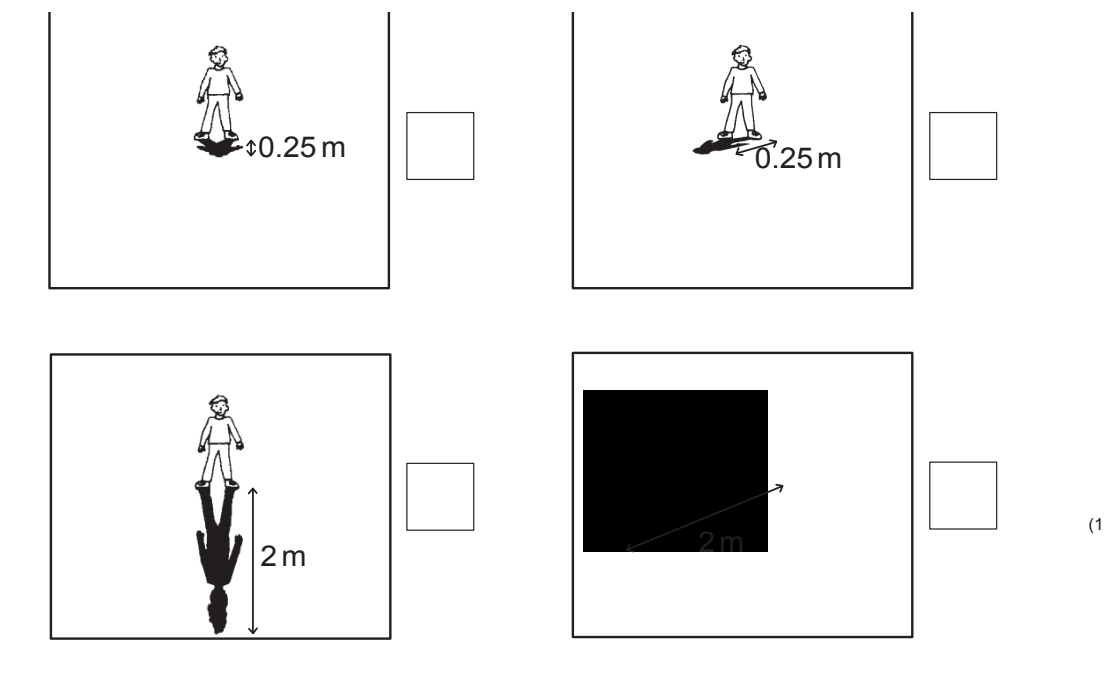
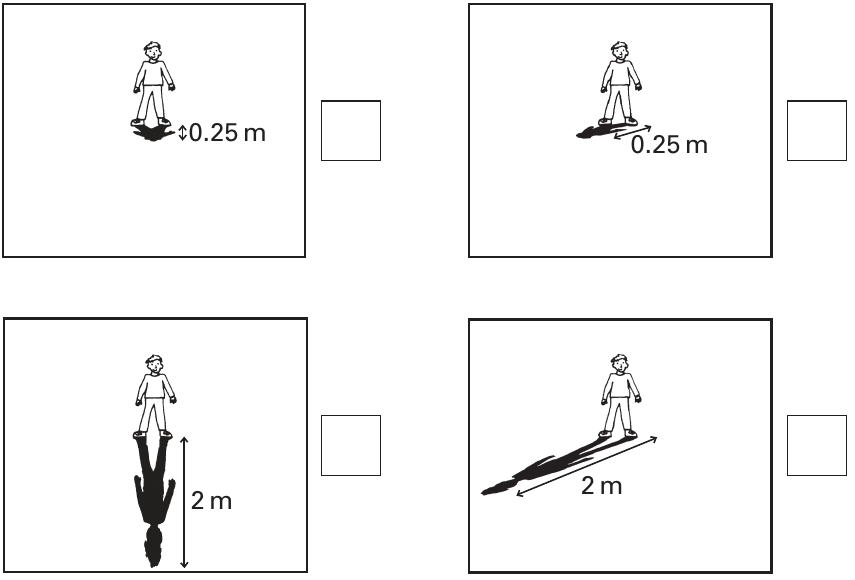
Fix KS2 Science diagrams, context, and accepted answers

diff --git a/apps/workspace-next/src/features/tests/content/ks2-science/progress-test-1.ts b/apps/workspace-next/src/features/tests/content/ks2-science/progress-test-1.ts
@@ -43,17 +43,24 @@ type SourceQuestion = {
     value?: unknown;
     values?: Record<string, unknown>;
     acceptedValues?: string[];
+    alternatives?: Array<Record<string, string>>;
+    min?: number;
+    max?: number;
+    expected?: number;
   };
   partialCredit?: {
     bands?: Array<{ minCorrect: number; marks: number }>;
   } | null;
   feedback: { explanation: string };
   assets: string[];
+  assetDescriptions?: Record<string, string>;
+  assetMaxWidths?: Record<string, number>;
 };
 
 type SourceSection = {
   id: string;
   title: string;
+  introduction: string;
   questions: SourceQuestion[];
 };
 
@@ -80,7 +87,11 @@ export const ks2ScienceProgressTest1: TestDefinition = {
     title: section.title,
     hint: "Answer every question. All responses are marked automatically.",
     groupByQuestionNumber: true,
-    questions: section.questions.map(convertQuestion),
+    visualPlacement: "perQuestion",
+    questions: section.questions.map((question, questionIndex) => ({
+      ...convertQuestion(question),
+      ...(questionIndex === 0 ? { groupIntro: { lead: section.introduction } } : {}),
+    })),
   })),
 };
 
@@ -95,8 +106,8 @@ function convertQuestion(question: SourceQuestion): TestQuestion {
       .map((asset) => ({
         type: "image" as const,
         src: assetPath(asset),
-        alt: `Source visual for question ${question.id}`,
-        maxWidth: 720,
+        alt: question.assetDescriptions?.[asset] || `Source visual for question ${question.id}`,
+        maxWidth: question.assetMaxWidths?.[asset] || 720,
       })),
   };
 
@@ -120,9 +131,9 @@ function convertQuestion(question: SourceQuestion): TestQuestion {
   }
 
   if (question.interaction.type === "integer_entry" || question.interaction.type === "numeric_entry") {
-    const accepted = question.answerRule.kind === "number_range"
-      ? integerRange(question.answerRule.values, question.answerRule)
-      : [String(question.answerRule.value ?? "")];
+    const numericRange = answerRange(question);
+    const expected = numericRange ? question.answerRule.expected ?? numericRange.min : question.answerRule.value;
+    const accepted = [String(expected ?? "")];
     return {
       ...common,
       type: "text",
@@ -130,8 +141,8 @@ function convertQuestion(question: SourceQuestion): TestQuestion {
       placeholder: question.interaction.unit ? `Answer in ${question.interaction.unit}` : "Enter a number",
       grading: {
         mode: "auto",
-        display: question.answerRule.kind === "number_range" ? "21–26 minutes (expected reading: 23)" : accepted[0],
-        parts: [{ id: "answer", accepted, points: question.marks }],
+        display: numericRange ? `${numericRange.min}–${numericRange.max} ${question.interaction.unit || ""} (expected reading: ${expected})`.trim() : accepted[0],
+        parts: [{ id: "answer", accepted, points: question.marks, numericRange }],
       },
     };
   }
@@ -161,6 +172,30 @@ function convertQuestion(question: SourceQuestion): TestQuestion {
   }
 
   const fields = responseFields(question);
+  if (question.answerRule.kind === "one_of_maps") {
+    const alternatives = question.answerRule.alternatives || [];
+    return {
+      ...common,
+      type: "multiText",
+      compact: true,
+      fields,
+      grading: {
+        mode: "auto",
+        display: alternatives.map((values) => displayValues(values, question)).join(" OR "),
+        parts: fields.map((field) => ({
+          id: field.id,
+          accepted: [...new Set(alternatives.map((values) => values[field.id]))],
+          points: 1,
+        })),
+        sequenceGroups: alternatives.map((values, index) => ({
+          id: `alternative-${index + 1}`,
+          partIds: fields.map((field) => field.id),
+          acceptedSequence: fields.map((field) => values[field.id]),
+          points: question.marks,
+        })),
+      },
+    };
+  }
   const values = question.answerRule.values || {};
   const parts = fields.map((field, index) => ({
     id: field.id,
@@ -253,11 +288,13 @@ function displayValues(values: Record<string, unknown>, question: SourceQuestion
   return Object.entries(values).map(([key, value]) => `${humanize(key)}: ${humanize(String(value))}`).join("; ");
 }
 
-function integerRange(_values: Record<string, unknown> | undefined, rule: SourceQuestion["answerRule"]) {
-  const record = rule as SourceQuestion["answerRule"] & { min?: number; max?: number };
-  const min = Number(record.min ?? 0);
-  const max = Number(record.max ?? min);
-  return Array.from({ length: max - min + 1 }, (_, index) => String(min + index));
+function answerRange(question: SourceQuestion) {
+  const { kind, min, max } = question.answerRule;
+  if (kind !== "number_range") return undefined;
+  if (typeof min !== "number" || typeof max !== "number" || !Number.isFinite(min) || !Number.isFinite(max) || min > max) {
+    throw new Error(`Invalid numeric range for question ${question.id}`);
+  }
+  return { min, max };
 }
 
 function partLabel(id: string) {

diff --git a/apps/workspace-next/src/features/tests/components/test-runner.tsx b/apps/workspace-next/src/features/tests/components/test-runner.tsx
@@ -32,7 +32,7 @@ export function TestRunner({ test }: { test: TestDefinition }) {
   const answeredCount = questions.filter((question) => isAnswered(answers[question.id])).length;
   const active = test.sections.find((section) => section.id === activeSection) || test.sections[0];
   const activeQuestionItems = useMemo(
-    () => groupScienceQuestions(active?.questions || [], Boolean(active?.groupByQuestionNumber)),
+    () => groupScienceQuestions(active?.questions || [], Boolean(active?.groupByQuestionNumber), active?.visualPlacement),
     [active],
   );
   const activeQuestionCount = active?.groupByQuestionNumber
@@ -350,7 +350,11 @@ type ScienceQuestionGroup = {
   visuals?: NonNullable<TestQuestion["visuals"]>;
 };
 
-function groupScienceQuestions(questions: TestQuestion[], groupAllByNumber = false): Array<TestQuestion | ScienceQuestionGroup> {
+function groupScienceQuestions(
+  questions: TestQuestion[],
+  groupAllByNumber = false,
+  visualPlacement: "shared" | "perQuestion" = "shared",
+): Array<TestQuestion | ScienceQuestionGroup> {
   const groupedNumbers = new Set([4, 5, 6, 7, 8, 9, 11, 12, 13, 14, 15, 16]);
   const groupByNumberOnly = new Set([4, 7, 11]);
   const items: Array<TestQuestion | ScienceQuestionGroup> = [];
@@ -366,7 +370,7 @@ function groupScienceQuestions(questions: TestQuestion[], groupAllByNumber = fal
     }
 
     const firstImage = firstImageSrc(question);
-    const hasSharedVisual = Boolean(firstImage) && (groupAllByNumber || !groupByNumberOnly.has(question.number));
+    const hasSharedVisual = visualPlacement === "shared" && Boolean(firstImage) && (groupAllByNumber || !groupByNumberOnly.has(question.number));
     const groupQuestions = [question];
     let nextIndex = index + 1;
     while (nextIndex < questions.length) {

diff --git a/apps/workspace-next/src/features/tests/lib/local-scoring.ts b/apps/workspace-next/src/features/tests/lib/local-scoring.ts
@@ -708,6 +708,11 @@ function distanceToSegment(point: { x: number; y: number }, start: { x: number; 
 }
 
 function isCorrectPart(raw: string | string[], part: NonNullable<Extract<TestQuestion["grading"], { mode: "auto" }>["parts"]>[number]) {
+  if (part.numericRange) {
+    if (typeof raw !== "string" || !/^[+-]?(?:\d+(?:\.\d*)?|\.\d+)$/.test(raw.trim())) return false;
+    const value = Number(raw.trim());
+    return Number.isFinite(value) && value >= part.numericRange.min && value <= part.numericRange.max;
+  }
   if (part.normalizer === "set") return sameSet(Array.isArray(raw) ? raw : [], part.accepted);
   if (part.normalizer === "contains") {
     return Array.isArray(raw) && part.accepted.some((accepted) => raw.some((item) => normalize(item) === normalize(accepted)));

diff --git a/apps/workspace-next/src/features/tests/components/question-renderer.tsx b/apps/workspace-next/src/features/tests/components/question-renderer.tsx
@@ -105,7 +105,9 @@ export function QuestionRenderer({
           ) : (
             <input
               autoComplete="off"
-              inputMode={question.inputMode === "number" ? "numeric" : "text"}
+              inputMode={question.inputMode === "number"
+                ? question.grading?.mode === "auto" && question.grading.parts.some((part) => part.numericRange) ? "decimal" : "numeric"
+                : "text"}
               onChange={(event) => onChange(event.target.value)}
               placeholder={question.placeholder || "answer"}
               value={typeof answer === "string" ? answer : ""}

diff --git a/apps/workspace-next/src/features/tests/lib/types.ts b/apps/workspace-next/src/features/tests/lib/types.ts
@@ -39,6 +39,7 @@ export type TestSection = {
   hint?: string;
   questionLayout?: "cards" | "grouped";
   groupByQuestionNumber?: boolean;
+  visualPlacement?: "shared" | "perQuestion";
   visuals?: QuestionVisual[];
   wordBank?: string[];
   storyTitle?: string;
@@ -157,6 +158,7 @@ export type AnswerPart = {
   id: string;
   accepted: string[];
   points: number;
+  numericRange?: { min: number; max: number };
   normalizer?: "text" | "time" | "set" | "contains" | "keywords" | "arrowDown" | "linearExpression";
   keywords?: string[][];
   reviewRecommended?: boolean;

diff --git a/apps/workspace-next/src/styles/globals.css b/apps/workspace-next/src/styles/globals.css
@@ -2605,6 +2605,15 @@ tr:last-child td { border-bottom: 0; }
   display: grid;
   gap: 16px;
 }
+[data-test-id="ks2-science-progress-test-1"] .science-subquestion-list,
+[data-test-id="ks2-science-progress-test-1"] .science-subquestion {
+  min-width: 0;
+  grid-template-columns: minmax(0, 1fr);
+}
+[data-test-id="ks2-science-progress-test-1"] .question-ks2-sci-pt1-8d .image-choice-card img {
+  width: min(100%, 320px);
+  height: auto;
+}
 .question-group-intro {
   display: grid;
   gap: 12px;

diff --git a/apps/workspace-next/docs/ks2-science-audit-fixes.md b/apps/workspace-next/docs/ks2-science-audit-fixes.md
@@ -1,0 +1,46 @@
+# KS2 Science Progress Test 1: audit fixes
+
+The test retains 37 question parts, 40 marks, the existing response formats and the original partial-credit bands. This change fixes presentation and local/demo marking. Live Supabase grading, test registration and saved results are outside this change.
+
+## Behavior
+
+- The KS2 sections opt into `visualPlacement: "perQuestion"`. Every part keeps its own diagrams and tables; other tests retain the shared-image default.
+- Each group displays its source introduction. The ramp investigation states that height is varied, and the shadow question includes the original 9 am reference.
+- Question 8(b) accepts either complete relationship, taller/longer or shorter/shorter, through the existing sequence-group grader. Mixed or incomplete combinations earn no mark.
+- Question 8(c) uses an explicit inclusive numeric range of 21-26 minutes. Finite decimal responses such as `23.0` and `23.5` work; empty, malformed and out-of-range responses do not. Questions without the new `numericRange` metadata retain their existing marking behavior.
+- Scoped KS2 grid sizing keeps the figures inside question cards, and the 8(d) option graphs use readable sizes.
+
+## Verification
+
+- `npm run verify:ks2-science`: 297 original audit cases and 21 additional edge cases pass; the primary response set scores 40/40 and blanks score zero. This check also runs before every build, including Netlify builds.
+- All nine 8(b) combinations, numeric boundaries and invalid inputs, and the partial-credit bands for 4(d), 6(e) and 7(b) are covered.
+- `node scripts/verify-diagnostic-keys.mjs`: the existing 53-part diagnostic scores 80/80 and passes its 21 regression cases.
+- Type checking, lint and the production build pass.
+- All eight KS2 sections were checked at 1440x900, 768x1024 and 390x844. All expected assets load, all eight introductions appear, and neither the page nor question cards overflow horizontally.
+- A browser demo submission with shorter/shorter for 8(b) and `23.5` for 8(c) scores 2/40, with the other 35 parts blank. No database is used.
+- SPIP Year 8 Science still displays four shared image groups and their introductions in its first section. The Combined Science diagnostic still displays three groups and four shared images in its first section.
+
+## Before and after
+
+Before: the graph-reading question has no graph.
+
+![Before: missing candle graph](ks2-science-evidence/candles-before.png)
+
+After: the graph is displayed beside question 8(c).
+
+![After: restored candle graph](ks2-science-evidence/candles-after.png)
+
+The restored shadow question includes the morning reference and all four intact alternatives.
+
+![After: restored shadow reference and choices](ks2-science-evidence/shadows-after.png)
+
+## Source provenance
+
+The original paper is the Standards and Testing Agency's 2012 KS2 Science Sampling Test B, STA/12/5593. The answer reference is STA/12/5591, printed pages 20-35. Crown copyright 2012; the original publication permits reuse under the Open Government Licence.
+
+- [Question paper, clean redistribution](https://www.sats-papers.co.uk/sats-papers/ks2/science/2012/ks2-science-2012-test-b.pdf)
+- [Original mark scheme](https://primarytools.co.uk/files/Tests/KS2/science2012/PrimaryTools.co.uk-2012SciKS2MarkScheme.pdf)
+
+The two shadow assets were re-extracted from page 14 rendered with Poppler at 1800 pixels high. Crop bounds in the 1273x1800 page image are `(650, 230, 960, 468)` for the morning reference and `(180, 715, 1035, 1295)` for the choices. No new diagrams were generated, and the official top-left key is retained.
+
+Review the deployment linked by Netlify on the pull request with `assignment=demo`. Production and the repository's approval rules remain unchanged until the user reviews and approves a merge.
